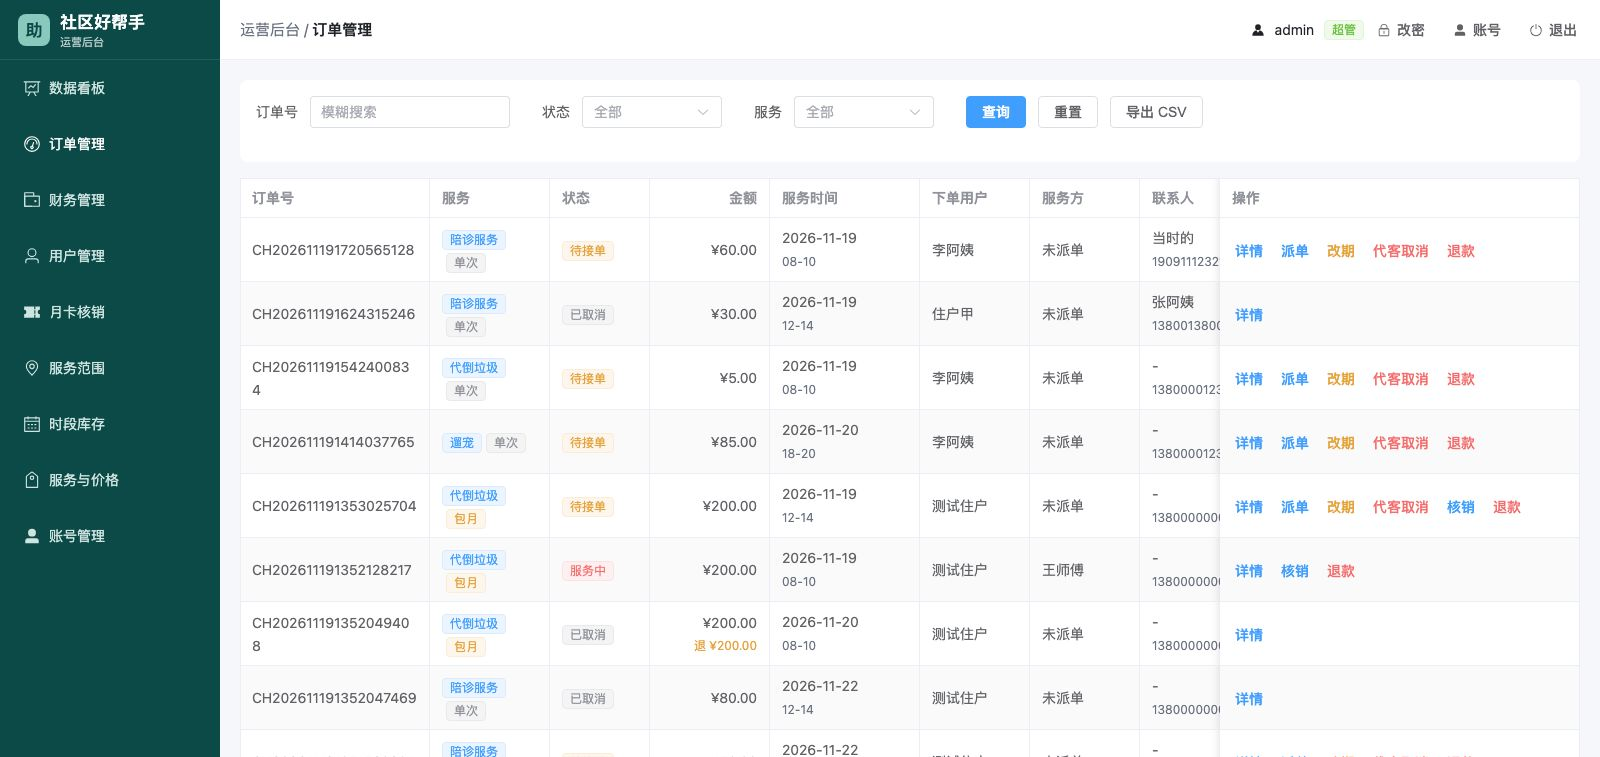
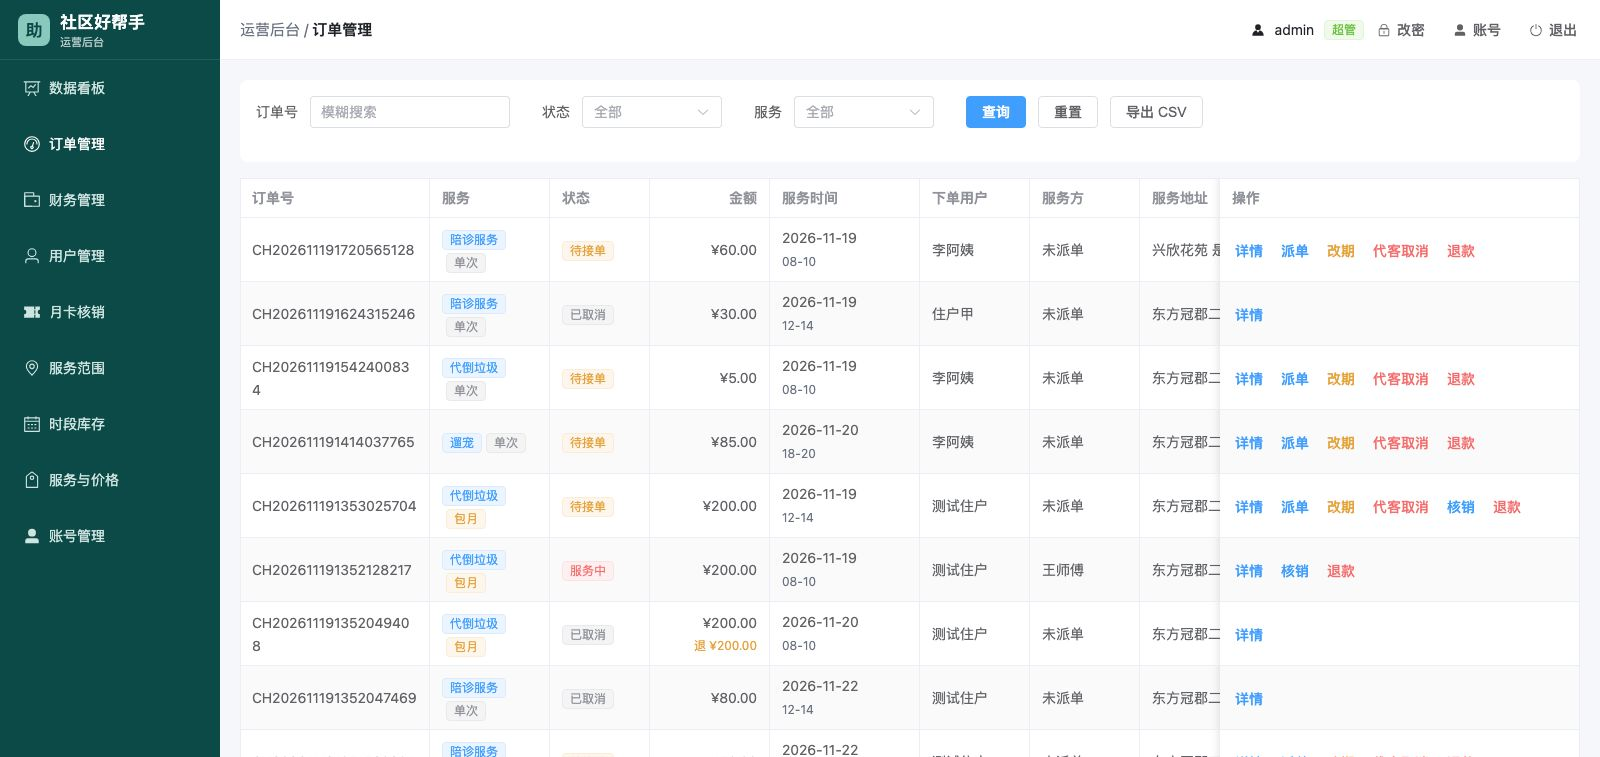
feat: 订单列表增加服务地址列（小区+门牌号）

diff --git a/admin/src/views/orders/index.vue b/admin/src/views/orders/index.vue
@@ -379,6 +379,11 @@ async function onExport() {
       <el-table-column label="服务方" min-width="110">
         <template #default="{ row }">{{ row.provider_nickname || (row.provider_id ? `ID ${row.provider_id}` : '未派单') }}</template>
       </el-table-column>
+      <el-table-column label="服务地址" min-width="150">
+        <template #default="{ row }">
+          {{ row.address ? `${row.address.community} ${row.address.house_no}` : '-' }}
+        </template>
+      </el-table-column>
       <el-table-column label="联系人" min-width="150">
         <template #default="{ row }">
           {{ row.address?.contact_name || '-' }}<br /><span class="slot-text">{{ row.address?.contact_phone || '' }}</span>
